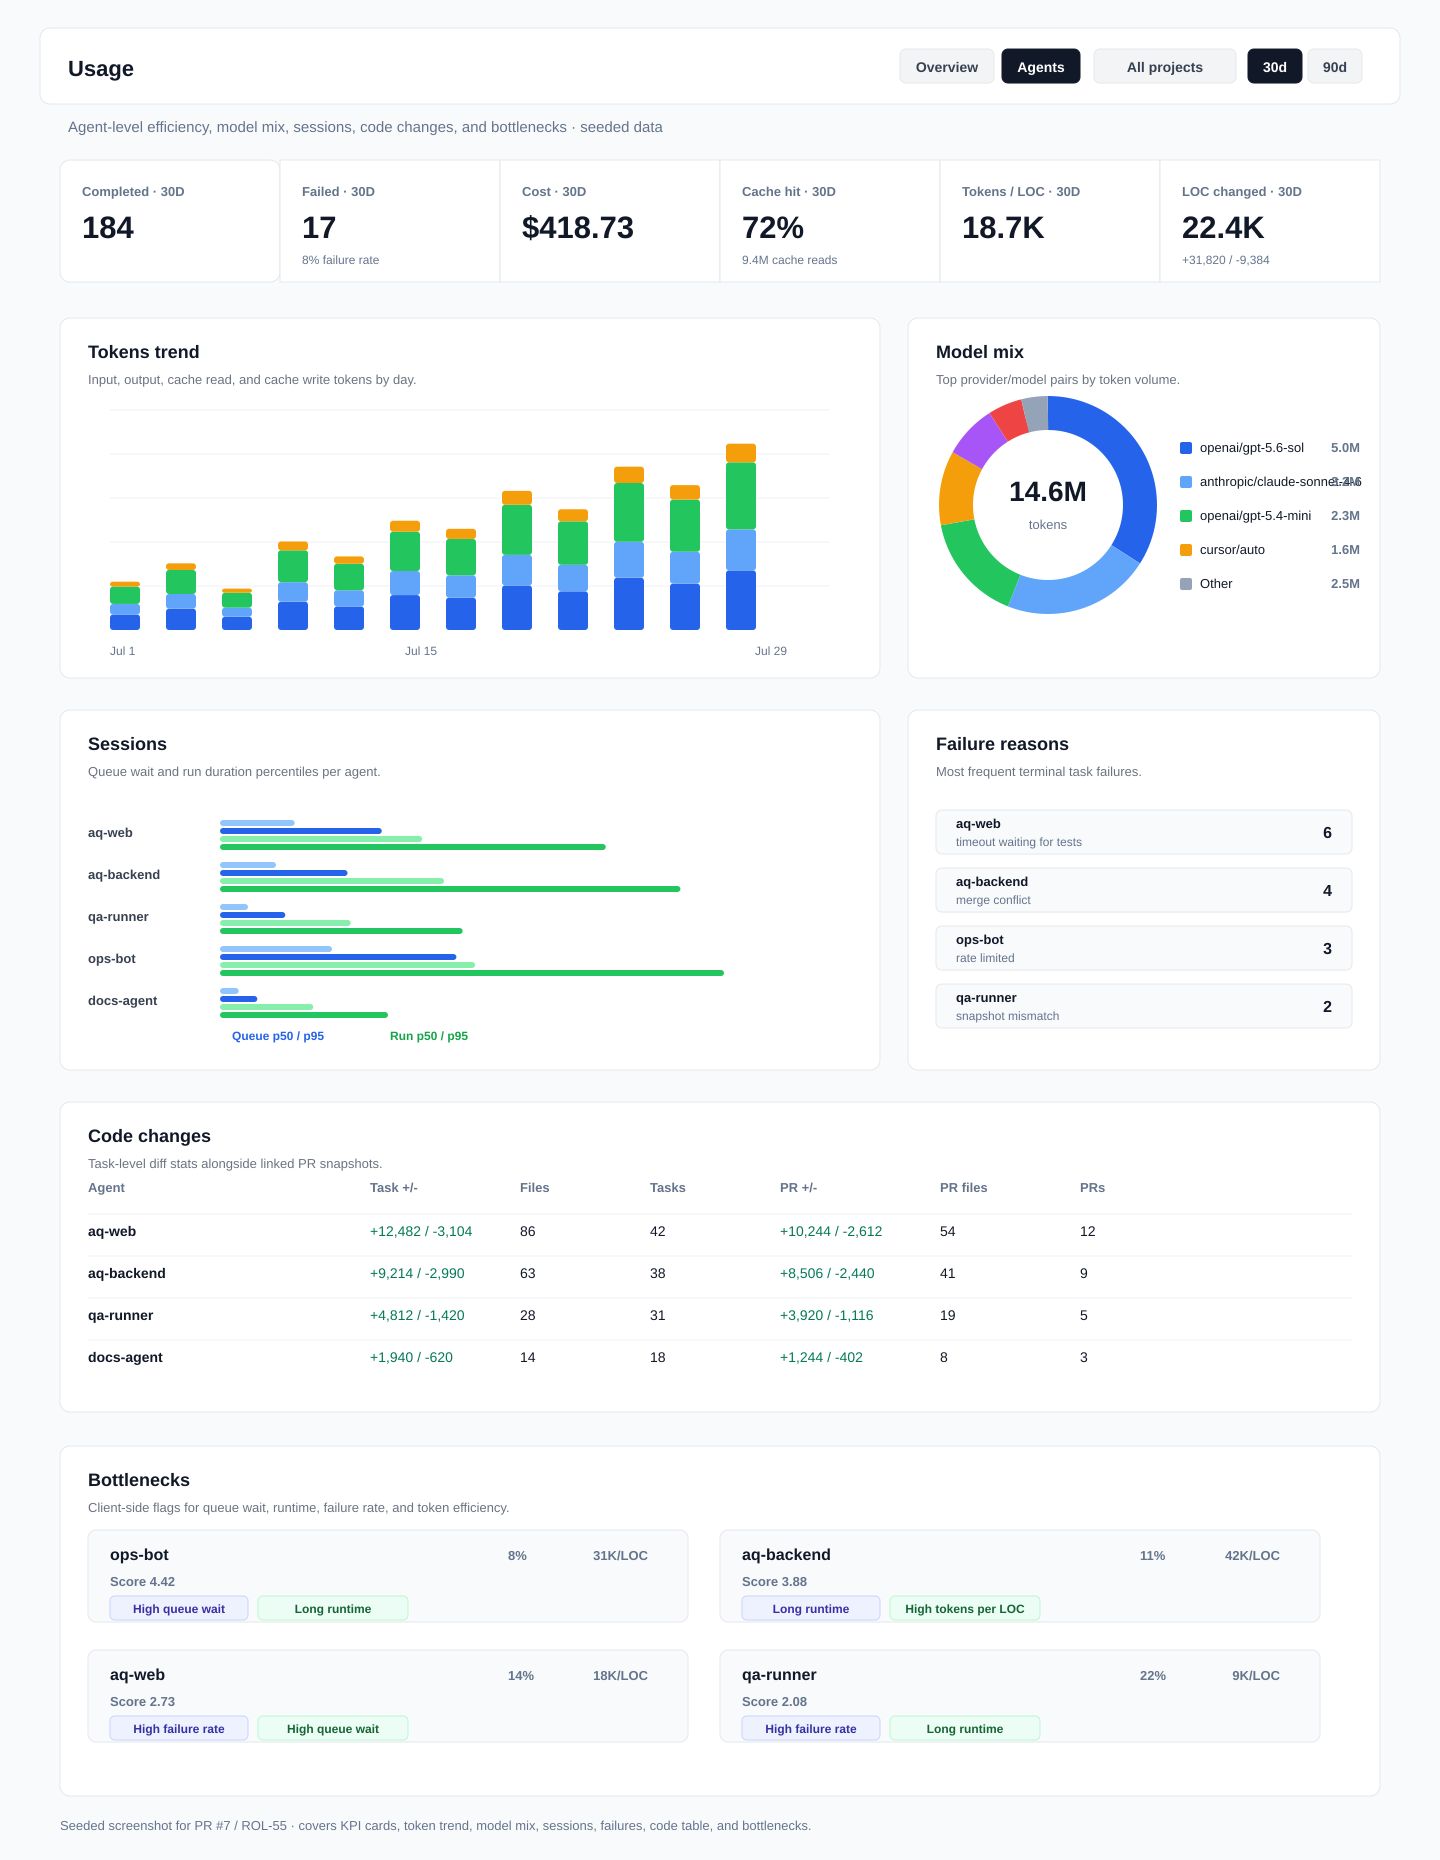
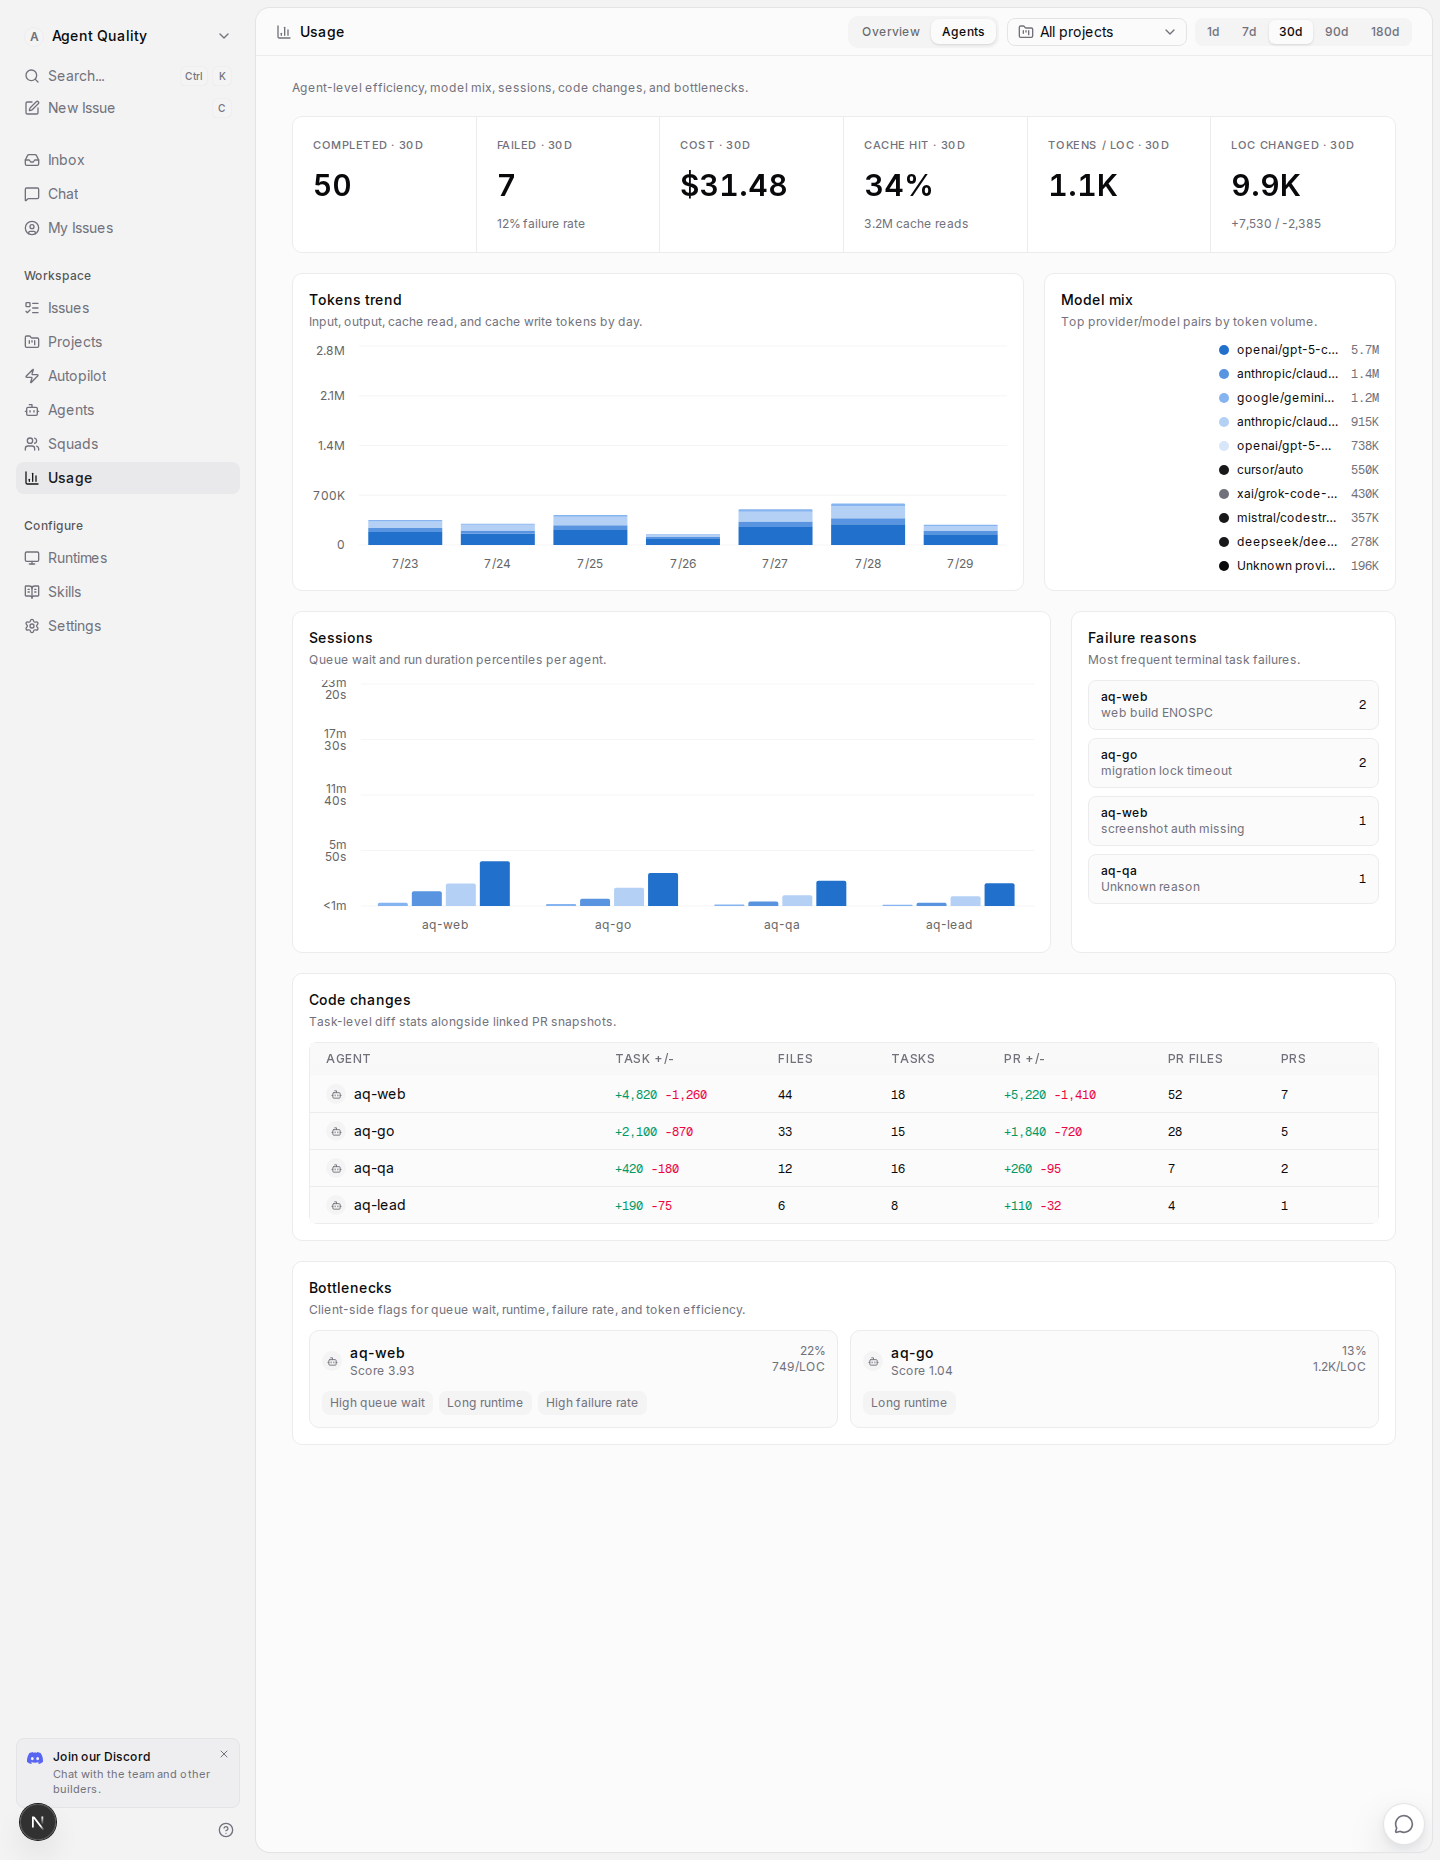
fix(usage): localize agents chart labels

diff --git a/packages/views/dashboard/components/agents-page.tsx b/packages/views/dashboard/components/agents-page.tsx
@@ -76,17 +76,6 @@ const EMPTY_AGENTS: Agent[] = [];
 
 const RANGE_OPTIONS = TIME_RANGES.map((r) => ({ label: r.label, value: r.days }));
 
-const modelMixConfig = {
-  tokens: { label: "Tokens", color: "var(--chart-1)" },
-} satisfies ChartConfig;
-
-const sessionsConfig = {
-  queueP50: { label: "Queue p50", color: "var(--chart-3)" },
-  queueP95: { label: "Queue p95", color: "var(--chart-2)" },
-  runP50: { label: "Run p50", color: "var(--chart-4)" },
-  runP95: { label: "Run p95", color: "var(--chart-1)" },
-} satisfies ChartConfig;
-
 const PIE_COLORS = [
   "var(--chart-1)",
   "var(--chart-2)",
@@ -172,9 +161,43 @@ export function AgentsUsagePage() {
   const tokensPerLoc = codeTotals.locChanged > 0
     ? (totals.input + totals.output + totals.cacheRead) / codeTotals.locChanged
     : 0;
+  const chartConfig = useMemo(
+    () => ({
+      modelMix: {
+        tokens: {
+          label: t(($) => $.agents.chart.tokens),
+          color: "var(--chart-1)",
+        },
+      } satisfies ChartConfig,
+      sessions: {
+        queueP50: {
+          label: t(($) => $.agents.chart.queue_p50),
+          color: "var(--chart-3)",
+        },
+        queueP95: {
+          label: t(($) => $.agents.chart.queue_p95),
+          color: "var(--chart-2)",
+        },
+        runP50: {
+          label: t(($) => $.agents.chart.run_p50),
+          color: "var(--chart-4)",
+        },
+        runP95: {
+          label: t(($) => $.agents.chart.run_p95),
+          color: "var(--chart-1)",
+        },
+      } satisfies ChartConfig,
+    }),
+    [t],
+  );
 
   const modelMix = useMemo(
-    () => buildModelMix(byAgentUsage, t(($) => $.agents.model_mix.other)),
+    () =>
+      buildModelMix(byAgentUsage, {
+        other: t(($) => $.agents.model_mix.other),
+        unknownProvider: t(($) => $.agents.model_mix.unknown_provider),
+        unknownModel: t(($) => $.agents.model_mix.unknown_model),
+      }),
     [byAgentUsage, t],
   );
   const sessionChartRows = useMemo(
@@ -182,8 +205,13 @@ export function AgentsUsagePage() {
     [sessions, lookup],
   );
   const failures = useMemo(
-    () => buildFailureRows(sessions, lookup.nameForAgent),
-    [sessions, lookup],
+    () =>
+      buildFailureRows(
+        sessions,
+        lookup.nameForAgent,
+        t(($) => $.agents.failures.unknown_reason),
+      ),
+    [sessions, lookup, t],
   );
   const codeTableRows = useMemo(
     () => buildCodeTableRows(codeRows, lookup),
@@ -296,7 +324,7 @@ export function AgentsUsagePage() {
                     title={t(($) => $.agents.model_mix.title)}
                     subtitle={t(($) => $.agents.model_mix.subtitle)}
                   />
-                  <ModelMixChart data={modelMix} />
+                  <ModelMixChart data={modelMix} config={chartConfig.modelMix} />
                 </section>
               </div>
 
@@ -308,6 +336,7 @@ export function AgentsUsagePage() {
                   />
                   <SessionsChart
                     data={sessionChartRows}
+                    config={chartConfig.sessions}
                     lessThanMinuteLabel={t(($) => $.duration.less_than_minute)}
                   />
                 </section>
@@ -362,13 +391,19 @@ function SectionEmpty({ children }: { children: ReactNode }) {
   );
 }
 
-function ModelMixChart({ data }: { data: ModelMixRow[] }) {
+function ModelMixChart({
+  data,
+  config,
+}: {
+  data: ModelMixRow[];
+  config: ChartConfig;
+}) {
   const { t } = useT("usage");
   if (data.length === 0) return <SectionEmpty>{t(($) => $.agents.model_mix.no_data)}</SectionEmpty>;
 
   return (
     <div className="grid gap-3 sm:grid-cols-[minmax(0,1fr)_minmax(160px,0.8fr)]">
-      <ChartContainer config={modelMixConfig} className="aspect-square min-h-56 w-full">
+      <ChartContainer config={config} className="aspect-square min-h-56 w-full">
         <PieChart>
           <ChartTooltip
             content={
@@ -417,16 +452,18 @@ function ModelMixChart({ data }: { data: ModelMixRow[] }) {
 
 function SessionsChart({
   data,
+  config,
   lessThanMinuteLabel,
 }: {
   data: SessionChartRow[];
+  config: ChartConfig;
   lessThanMinuteLabel: string;
 }) {
   const { t } = useT("usage");
   if (data.length === 0) return <SectionEmpty>{t(($) => $.agents.sessions.no_data)}</SectionEmpty>;
 
   return (
-    <ChartContainer config={sessionsConfig} className="aspect-[3/1] min-h-64 w-full">
+    <ChartContainer config={config} className="aspect-[3/1] min-h-64 w-full">
       <BarChart data={data} margin={{ left: 0, right: 0, top: 4, bottom: 0 }}>
         <CartesianGrid vertical={false} />
         <XAxis dataKey="agentName" tickLine={false} axisLine={false} tickMargin={8} interval="preserveStartEnd" />
@@ -666,11 +703,14 @@ function computeCacheHitRatio(cacheRead: number, input: number) {
   return denom > 0 ? cacheRead / denom : 0;
 }
 
-function buildModelMix(rows: DashboardUsageByAgent[], otherLabel: string): ModelMixRow[] {
+function buildModelMix(
+  rows: DashboardUsageByAgent[],
+  labels: { other: string; unknownProvider: string; unknownModel: string },
+): ModelMixRow[] {
   const grouped = new Map<string, number>();
   for (const row of rows) {
-    const provider = row.provider || "unknown";
-    const model = row.model || "unknown";
+    const provider = row.provider || labels.unknownProvider;
+    const model = row.model || labels.unknownModel;
     const key = `${provider}/${model}`;
     grouped.set(
       key,
@@ -687,7 +727,7 @@ function buildModelMix(rows: DashboardUsageByAgent[], otherLabel: string): Model
     .toSorted((a, b) => b.tokens - a.tokens);
   const top = sorted.slice(0, 10);
   const other = sorted.slice(10).reduce((sum, row) => sum + row.tokens, 0);
-  return other > 0 ? [...top, { label: otherLabel, tokens: other }] : top;
+  return other > 0 ? [...top, { label: labels.other, tokens: other }] : top;
 }
 
 function buildSessionChartRows(rows: DashboardAgentSessions[], nameForAgent: (agentId: string) => string): SessionChartRow[] {
@@ -704,12 +744,16 @@ function buildSessionChartRows(rows: DashboardAgentSessions[], nameForAgent: (ag
     .slice(0, 12);
 }
 
-function buildFailureRows(rows: DashboardAgentSessions[], nameForAgent: (agentId: string) => string): FailureRow[] {
+function buildFailureRows(
+  rows: DashboardAgentSessions[],
+  nameForAgent: (agentId: string) => string,
+  unknownReasonLabel: string,
+): FailureRow[] {
   return rows.flatMap((row) =>
     row.failure_reasons.map((reason) => ({
       agentId: row.agent_id,
       agentName: nameForAgent(row.agent_id),
-      reason: reason.failure_reason || "unknown",
+      reason: reason.failure_reason || unknownReasonLabel,
       count: reason.count,
     })),
   ).toSorted((a, b) => b.count - a.count);
